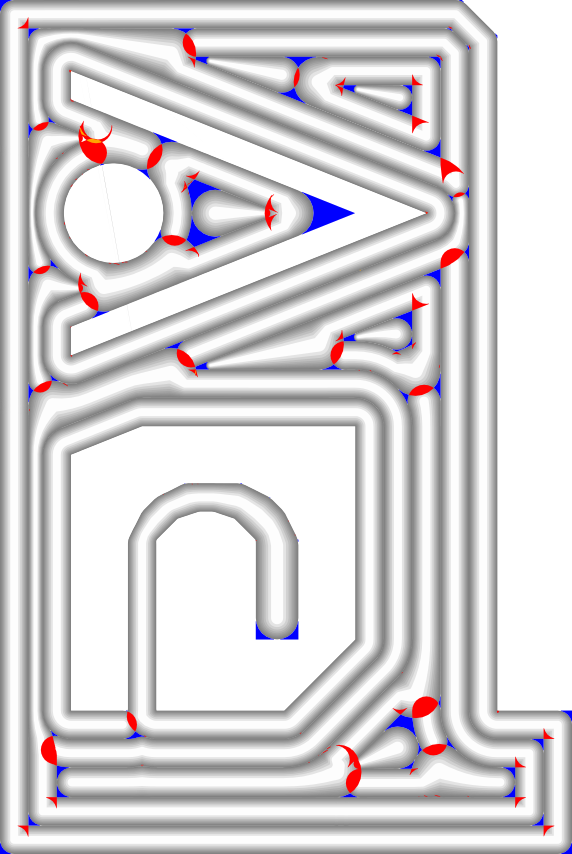
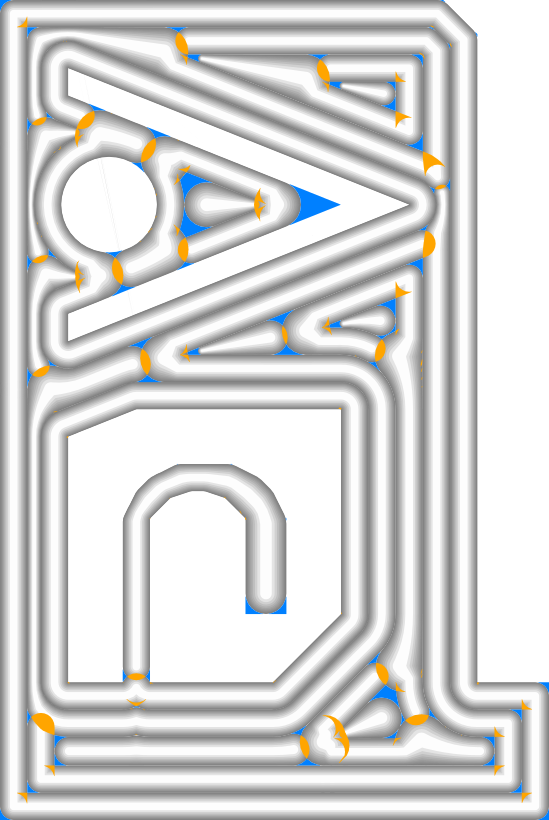
redo accuracy and width figures

diff --git a/1_intro.tex b/1_intro.tex
@@ -26,11 +26,11 @@ Some such toolpath generation techniques have already been developed.
 
 \begin{figure}\centering
 \includegraphics[width=\columnwidth]{sources/intro/TEST_naive_accuracy.png}
-\includegraphics[width=\columnwidth]{sources/intro/TEST_Center_accuracy.png}
-\includegraphics[width=\columnwidth]{sources/intro/TEST_Distributed_accuracy.png}
+\includegraphics[width=\columnwidth]{sources/intro/TEST_Center_widths.png}
+\includegraphics[width=\columnwidth]{sources/intro/TEST_InwardDistributed_widths.png}
 \caption{
 Toolpaths for a wedge shape using the naive offsetting approach (top), the approach by \citeauthor{Jin2017JMS}(middle) and our approach (bottom).
-Red signifies overfill and blue underfill.
+Overfill in orange, underfill in azure, narrow beads in blue and wide beads in red.
 The wedge shape can be read like a graph plot: for each model diameter we can read out the resulting over- or underfill if a model has thin features with that particular diameter.
 }
 \label{intro_wedge}

diff --git a/6_validation.tex b/6_validation.tex
@@ -108,11 +108,10 @@ The resulting overfill and underfill areas are visualized for the different tool
 \caption{
 Visualizing the overfills and underfills and the widths for various beading strategies.
 Extrusion beads in gray tones,
-blue areas in the top images signify underfill regions,
-red areas overfill,
-orange areas triply extruded areas (double overfill).
-The bottom visualizes the bead widths at each location at \SI{90}{\percent} width.
-Cold colors are narrower than the nozzle size $w_\text{pref}$ and warm colors are wider than the nozzle size.
+overfill in orange,
+underfill in azure,
+narrow beads in blue
+and wide beads in red.
 }
 \label{visualized_accuracy}
 \end{figure*}
